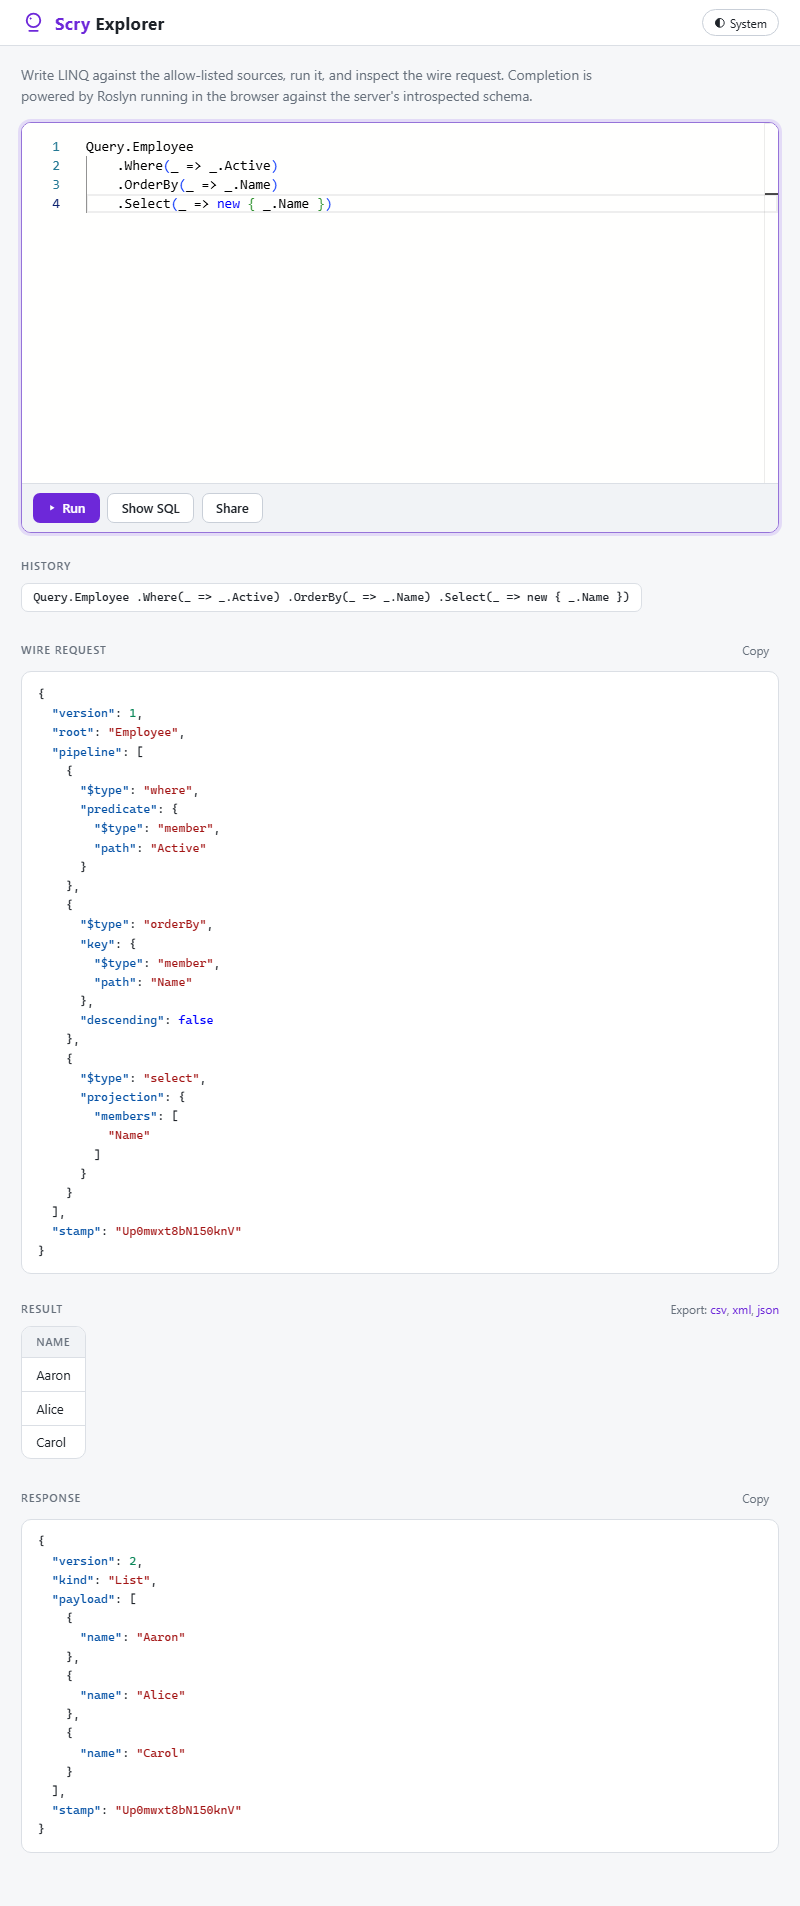
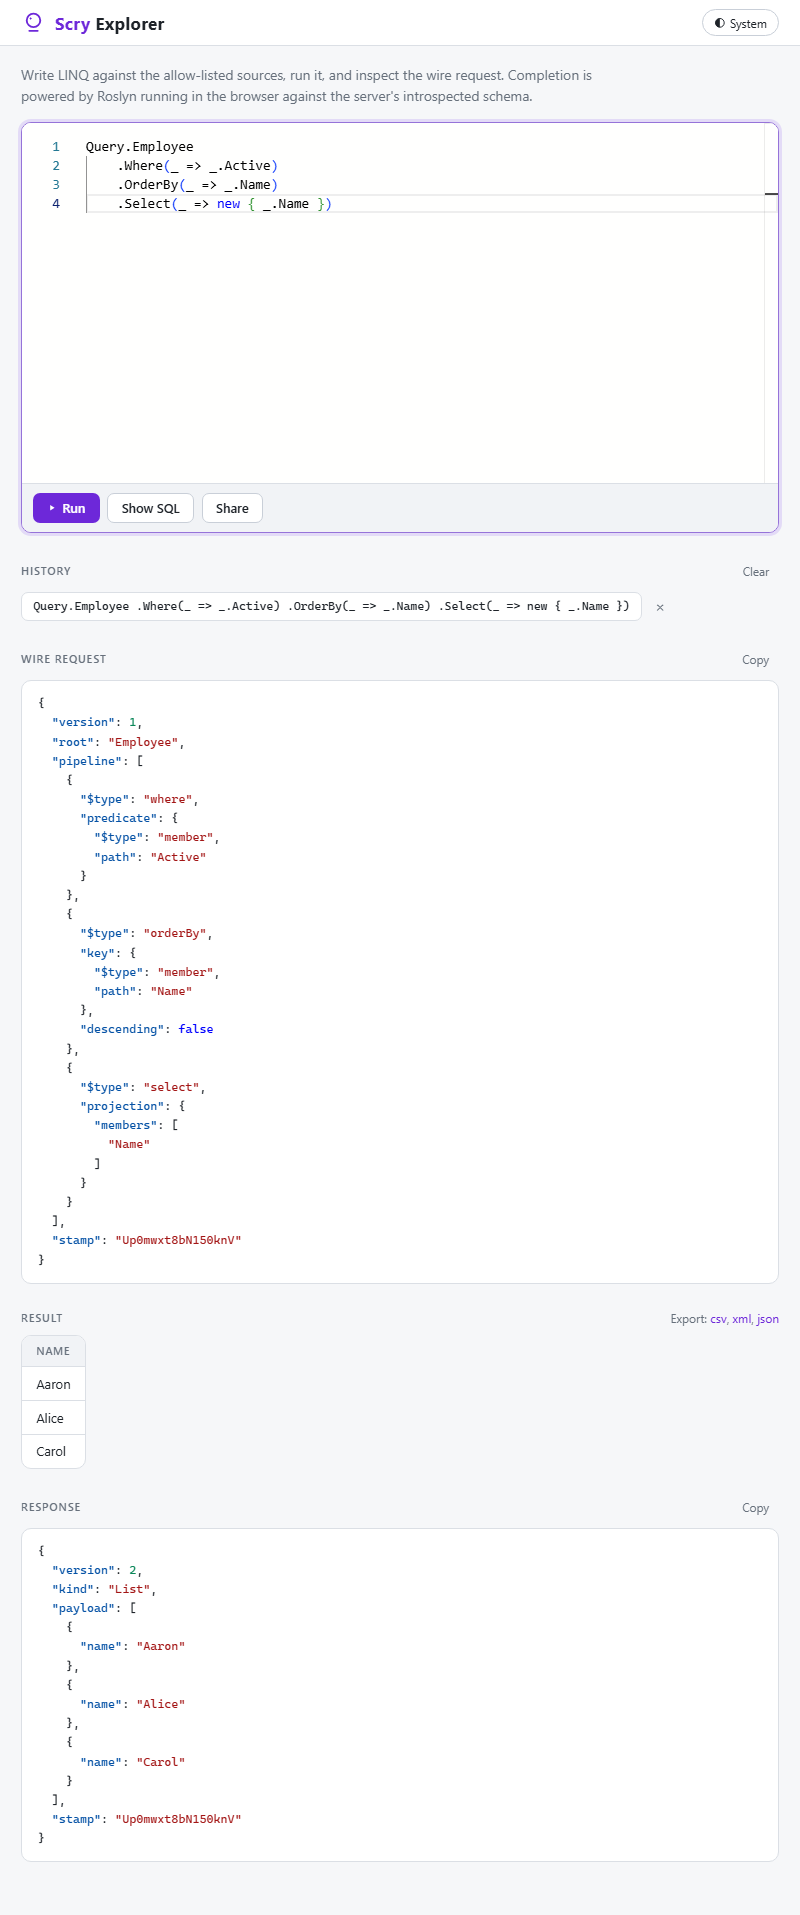
Block non-compiling Explorer queries
Add a compile gate before Run/Show SQL so queries with Roslyn errors are refused with a clear compile message instead of being translated/executed. Also clear stale wire/result panes on refused runs, add per-entry and full history deletion in the UI, and update styles/tests/snapshots to cover the new behavior.

diff --git a/src/Scry.Explorer.Ui/wwwroot/css/app.css b/src/Scry.Explorer.Ui/wwwroot/css/app.css
@@ -442,6 +442,7 @@ ul[data-testid="history"] {
 
 ul[data-testid="history"] li {
     display: flex;
+    gap: 0.25rem;
     min-width: 0;
 }
 
@@ -463,6 +464,24 @@ ul[data-testid="history"] a {
 ul[data-testid="history"] a:hover {
     color: var(--accent);
     border-color: color-mix(in srgb, var(--accent) 45%, var(--border));
+}
+
+/*
+  The per-entry remove. Sized to the glyph and unshrinkable, so it stays beside the entry it removes
+  rather than aligning into a column at the right margin, where the cross for a short entry would sit
+  a long way from it. It borrows .icon-btn for the hover and focus treatment and overrides only the
+  glyph's metrics; the hover color has to be redeclared after .icon-btn:hover to win, the two selectors
+  being of equal weight.
+*/
+.history-remove {
+    flex: none;
+    padding: 0 0.55rem;
+    font-size: 1rem;
+    line-height: 1;
+}
+
+.history-remove:hover {
+    color: light-dark(#d03a42, #e07777);
 }
 
 /*

diff --git a/samples/Sample.Tests/UiSnapshotTests.cs b/samples/Sample.Tests/UiSnapshotTests.cs
@@ -636,6 +636,150 @@ public class UiSnapshotTests :
         Assert.That(historyText, Does.Contain(".Where(_ => _.Active)"));
     }
 
+    // The executor strips a trailing collection terminal — arguments and all — before it compiles, so
+    // nothing written inside .ToDictionaryAsync(…) reaches its compiler. Every one of these is squiggled
+    // by the editor, and every one of them used to run: a wire request, rows, and an entry in the
+    // history, for a query a real client project would not build. Salary is the one that stings — it is
+    // [QueryIgnore]d, and the explorer's claim is that what completes is the allow-list.
+    [TestCase("Query.Employee.ToDictionaryAsync()", "takes 0 arguments")]
+    [TestCase("Query.Employee.ToDictionaryAsync(_ => _.Salary)", "'Salary'")]
+    [TestCase("Query.Employee.ToListAsync(totalGarbage, 42)", "'totalGarbage'")]
+    public async Task ExplorerRefusesAQueryThatDoesNotCompile(string query, string expected)
+    {
+        var page = await NewPageAsync();
+        await page.GoToExplorerAsync(BaseUrl);
+
+        await page.SetEditorValueAsync(query);
+        await page.Locator("[data-testid='run']").ClickAsync();
+
+        // The refusal names the error rather than grinding to a halt, and reads the same as one raised
+        // for code the executor did compile.
+        var error = page.Locator("[data-testid='error']");
+        await Assertions.Expect(error).ToContainTextAsync(expected, new() {Timeout = 60_000});
+        await Assertions.Expect(error).ToContainTextAsync("Could not compile the query");
+
+        // And it is total: nothing was translated, sent, or remembered.
+        await Assertions.Expect(page.Locator("[data-testid='wire']")).ToHaveCountAsync(0);
+        await Assertions.Expect(page.Locator("[data-testid='history']")).ToHaveCountAsync(0);
+    }
+
+    // Show SQL translates the same query through the same executor, so it is refused on the same terms.
+    [Test]
+    public async Task ExplorerRefusesToShowSqlForAQueryThatDoesNotCompile()
+    {
+        var page = await NewPageAsync();
+        await page.GoToExplorerAsync(BaseUrl);
+
+        await page.SetEditorValueAsync("Query.Employee.ToDictionaryAsync()");
+        await page.Locator("[data-testid='sql-preview']").ClickAsync();
+
+        await Assertions.Expect(page.Locator("[data-testid='error']"))
+            .ToContainTextAsync("takes 0 arguments", new() {Timeout = 60_000});
+        await Assertions.Expect(page.Locator("[data-testid='sql']")).ToHaveCountAsync(0);
+    }
+
+    // A refused run clears the panes rather than leaving the last query's request and response sitting
+    // under an error saying this one produced neither.
+    [Test]
+    public async Task ExplorerClearsThePanesWhenARunIsRefused()
+    {
+        var page = await NewPageAsync();
+        await page.GoToExplorerAsync(BaseUrl);
+
+        await RunQueryAsync(page, "Query.Employee.OrderBy(_ => _.Name).Select(_ => new { _.Name })", 1);
+        await Assertions.Expect(page.Locator("[data-testid='wire']")).ToHaveCountAsync(1);
+
+        await page.SetEditorValueAsync("Query.Employee.ToDictionaryAsync()");
+        await page.Locator("[data-testid='run']").ClickAsync();
+
+        await Assertions.Expect(page.Locator("[data-testid='error']"))
+            .ToContainTextAsync("takes 0 arguments", new() {Timeout = 60_000});
+        await Assertions.Expect(page.Locator("[data-testid='wire']")).ToHaveCountAsync(0);
+        await Assertions.Expect(page.Locator("[data-testid='result']")).ToHaveCountAsync(0);
+
+        // The run that did work is still in the history: a refusal forgets nothing.
+        await Assertions.Expect(page.Locator("[data-testid='history'] li")).ToHaveCountAsync(1);
+    }
+
+    // The gate is on compiling, not on the editor having last said so: a query that does compile still
+    // runs, and the added Roslyn pass does not swallow the run.
+    [Test]
+    public async Task ExplorerRunsAQueryThatCompiles()
+    {
+        var page = await NewPageAsync();
+        await page.GoToExplorerAsync(BaseUrl);
+
+        await RunQueryAsync(page, "Query.Employee.ToDictionaryAsync(_ => _.Name)", 1);
+
+        await Assertions.Expect(page.Locator("[data-testid='error']")).ToHaveCountAsync(0);
+        Assert.That(
+            await page.Locator("[data-testid='wire']").InnerTextAsync(),
+            Does.Contain("\"root\"").And.Contain("Employee"));
+    }
+
+    // The history is the explorer's only state that outlives the tab, so it is the only thing a user can
+    // be stuck with. Removing one entry has to take the one aimed at, which is what a list ordered newest
+    // first and rendered on text alone makes worth proving.
+    [Test]
+    public async Task ExplorerForgetsOneHistoryEntry()
+    {
+        var page = await NewPageAsync();
+        await page.GoToExplorerAsync(BaseUrl);
+
+        await RunQueryAsync(page, "Query.Employee.Where(_ => _.Active).Select(_ => new { _.Name })", 1);
+        await RunQueryAsync(page, "Query.Department.OrderBy(_ => _.Name).Select(_ => new { _.Name })", 2);
+
+        // Newest first, so the Employee query is the second entry.
+        var entries = page.Locator("[data-testid='history'] li");
+        await entries.Nth(1).Locator("[data-testid='history-remove']").ClickAsync();
+
+        await Assertions.Expect(entries).ToHaveCountAsync(1);
+        Assert.That(await entries.InnerTextAsync(), Does.Contain("Query.Department"));
+        Assert.That(
+            await StoredHistoryAsync(page),
+            Does.Contain("Query.Department").And.Not.Contain("Query.Employee"));
+    }
+
+    [Test]
+    public async Task ExplorerClearsTheHistory()
+    {
+        var page = await NewPageAsync();
+        await page.GoToExplorerAsync(BaseUrl);
+
+        await RunQueryAsync(page, "Query.Employee.Where(_ => _.Active).Select(_ => new { _.Name })", 1);
+
+        await page.Locator("[data-testid='history-clear']").ClickAsync();
+
+        // The heading and the Clear button go with the last entry: an emptied history renders nothing,
+        // rather than an empty list under a heading offering to clear it again.
+        await Assertions.Expect(page.Locator("[data-testid='history']")).ToHaveCountAsync(0);
+        await Assertions.Expect(page.Locator("[data-testid='history-clear']")).ToHaveCountAsync(0);
+        Assert.That(await StoredHistoryAsync(page), Is.EqualTo("[]"));
+    }
+
+    /// <summary>
+    /// Runs <paramref name="query"/>, waiting until the history holds <paramref name="expectedEntries"/>.
+    /// </summary>
+    /// <remarks>
+    /// The history taking the query is what marks a run as having finished, and finished *successfully* —
+    /// it is written on a 2xx. Waiting on the result table instead would not do for the second run: the
+    /// first run's table is still on screen while this one is in flight, so the selector is satisfied
+    /// before anything has happened. The long timeout is for the first run on a page, which pays for
+    /// Roslyn compiling the snippet in the interpreter.
+    /// </remarks>
+    static async Task RunQueryAsync(IPage page, string query, int expectedEntries)
+    {
+        await page.SetEditorValueAsync(query);
+        await page.Locator("[data-testid='run']").ClickAsync();
+        await Assertions.Expect(page.Locator("[data-testid='history'] li"))
+            .ToHaveCountAsync(expectedEntries, new() {Timeout = 60_000});
+    }
+
+    // Read out of storage rather than off the rendered list, because the two can disagree: a removal
+    // that only dropped the entry from the render looks identical until a reload brings it back.
+    static Task<string> StoredHistoryAsync(IPage page) =>
+        page.EvaluateAsync<string>("() => localStorage.getItem('scry-history')");
+
     // A [BinaryTransfer] member never travels inside the JSON payload: the server diverts it to a raw
     // multipart part and leaves {"$bin":n} behind, which is a response the explorer cannot parse as
     // JSON at all. It reassembles one instead, so a diverted member reads as the base64 the same

diff --git a/src/Scry.Explorer.Ui/App.razor.cs b/src/Scry.Explorer.Ui/App.razor.cs
@@ -418,6 +418,7 @@ public partial class App
             error = null;
             sqlText = null;
             var code = await editor.GetValue();
+            await EnsureCompiles(code);
             executor ??= SnippetExecutor.Create(introspection, scryReferences);
             var json = ScryJson.Serialize(executor.Translate(code));
 
@@ -462,6 +463,45 @@ public partial class App
         }
     }
 
+    /// <summary>
+    /// Throws unless the query compiles, so a query the editor has squiggled is refused rather than run.
+    /// </summary>
+    /// <remarks>
+    /// <see cref="SnippetExecutor"/> strips a trailing collection terminal — arguments and all — before it
+    /// compiles anything. That is right for the wire, where a key selector shapes rows client-side and has
+    /// no representation at all, but it leaves nothing written inside <c>.ToDictionaryAsync(…)</c> ever
+    /// compiled: a missing key selector, a member the allow-list excludes, or plain nonsense would be
+    /// squiggled by the editor and then run perfectly happily, returning rows for a query that a real
+    /// client project would not build. Checked here against the text as written, so the two agree.
+    ///
+    /// Diagnosed on demand rather than read off the debounced pass behind the squiggles: that one is
+    /// best-effort by design — it may be mid-flight, superseded, or to have failed silently — and none of
+    /// those should be what decides whether a query runs. For the same reason the buttons stay enabled:
+    /// a refusal that names the error is worth more than one that greys out, and a background pass that
+    /// quietly died must not leave Run dead with it.
+    ///
+    /// Thrown rather than returned so it lands in the caller's existing catch, beside the compile failures
+    /// the executor raises for the code it does compile, and reads identically in the banner.
+    /// </remarks>
+    async Task EnsureCompiles(string code)
+    {
+        if (workspace is null)
+        {
+            return;
+        }
+
+        var errors = (await workspace.DiagnoseAsync(code))
+            .Where(_ => _.IsError)
+            .Select(_ => _.Message)
+            .Take(3)
+            .ToList();
+
+        if (errors.Count > 0)
+        {
+            throw new($"Could not compile the query: {string.Join("; ", errors)}");
+        }
+    }
+
     async Task Run()
     {
         if (introspection is null || scryReferences is null)
@@ -480,7 +520,15 @@ public partial class App
             sqlText = null;
             attachmentLinks = [];
             attachmentNotes.Clear();
+            // Cleared with the rest, so a run that never got as far as translating does not leave the
+            // panes showing the previous query's request and response under the error explaining that
+            // this one produced neither. Both are set again below the moment there is something to show,
+            // which keeps the wire request on screen for a query the *server* rejected — there the
+            // request is what the rejection is about.
+            wireJson = null;
+            resultJson = null;
             var code = await editor.GetValue();
+            await EnsureCompiles(code);
             executor ??= SnippetExecutor.Create(introspection, scryReferences);
             var request = executor.Translate(code);
             var json = ScryJson.Serialize(request);
@@ -785,6 +833,20 @@ public partial class App
         {
             history.RemoveRange(10, history.Count - 10);
         }
+    }
+
+    // Removal is by text rather than by index: entries are deduped on exactly that, so it identifies
+    // one, and it survives the list having moved under a render the click raced.
+    Task RemoveHistory(string query)
+    {
+        history.Remove(query);
+        return SaveHistory();
+    }
+
+    Task ClearHistory()
+    {
+        history.Clear();
+        return SaveHistory();
     }
 
     async Task LoadQuery(string query)
